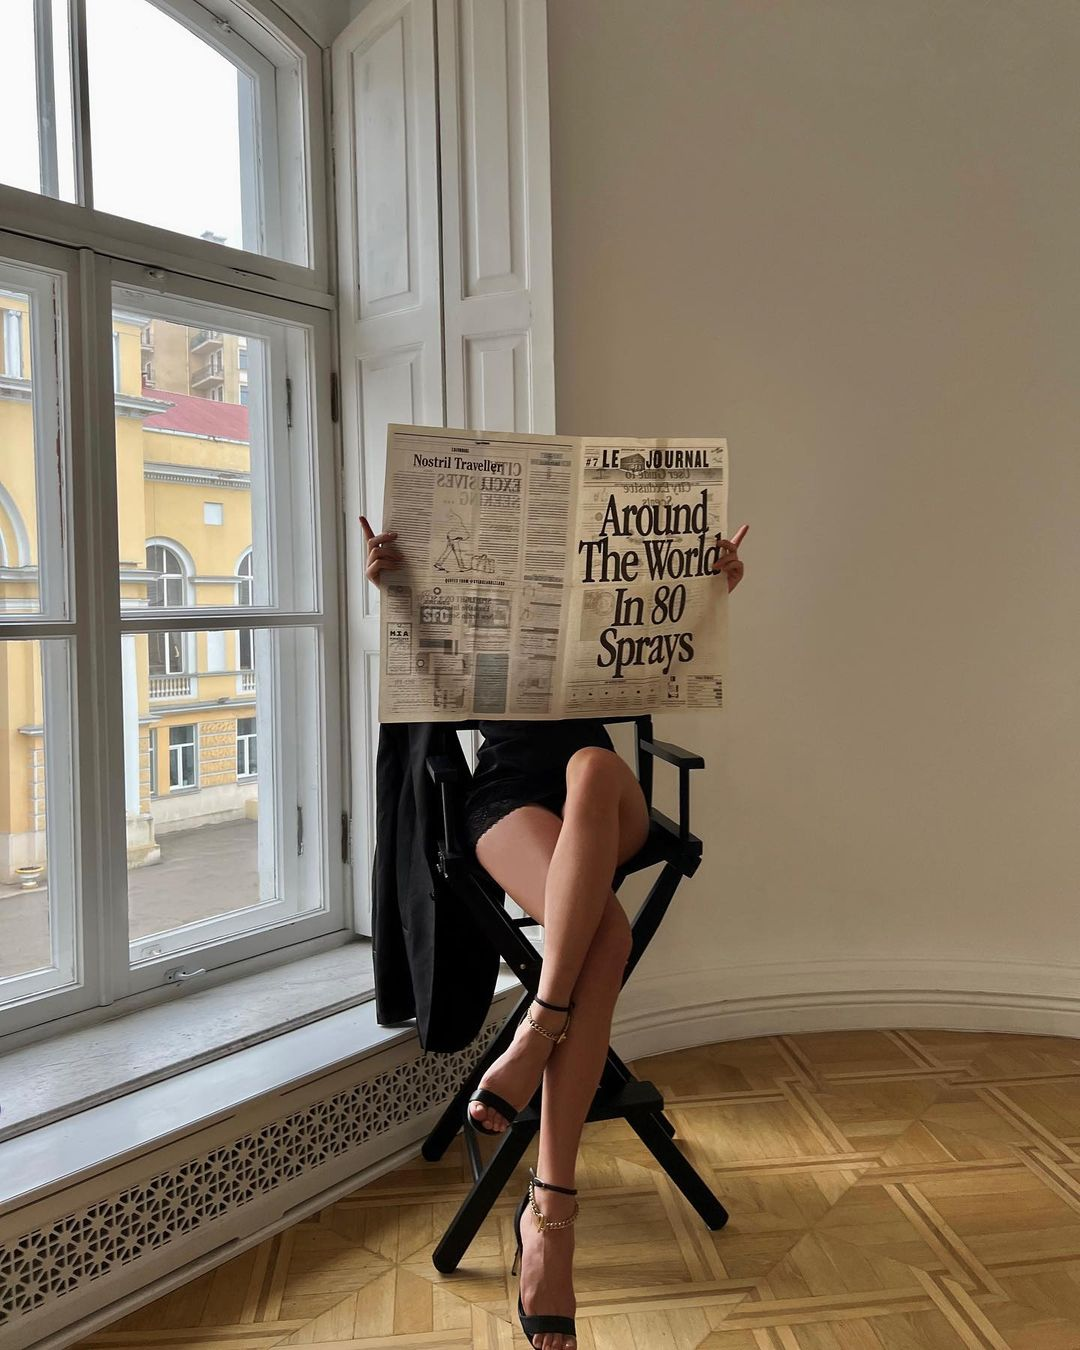
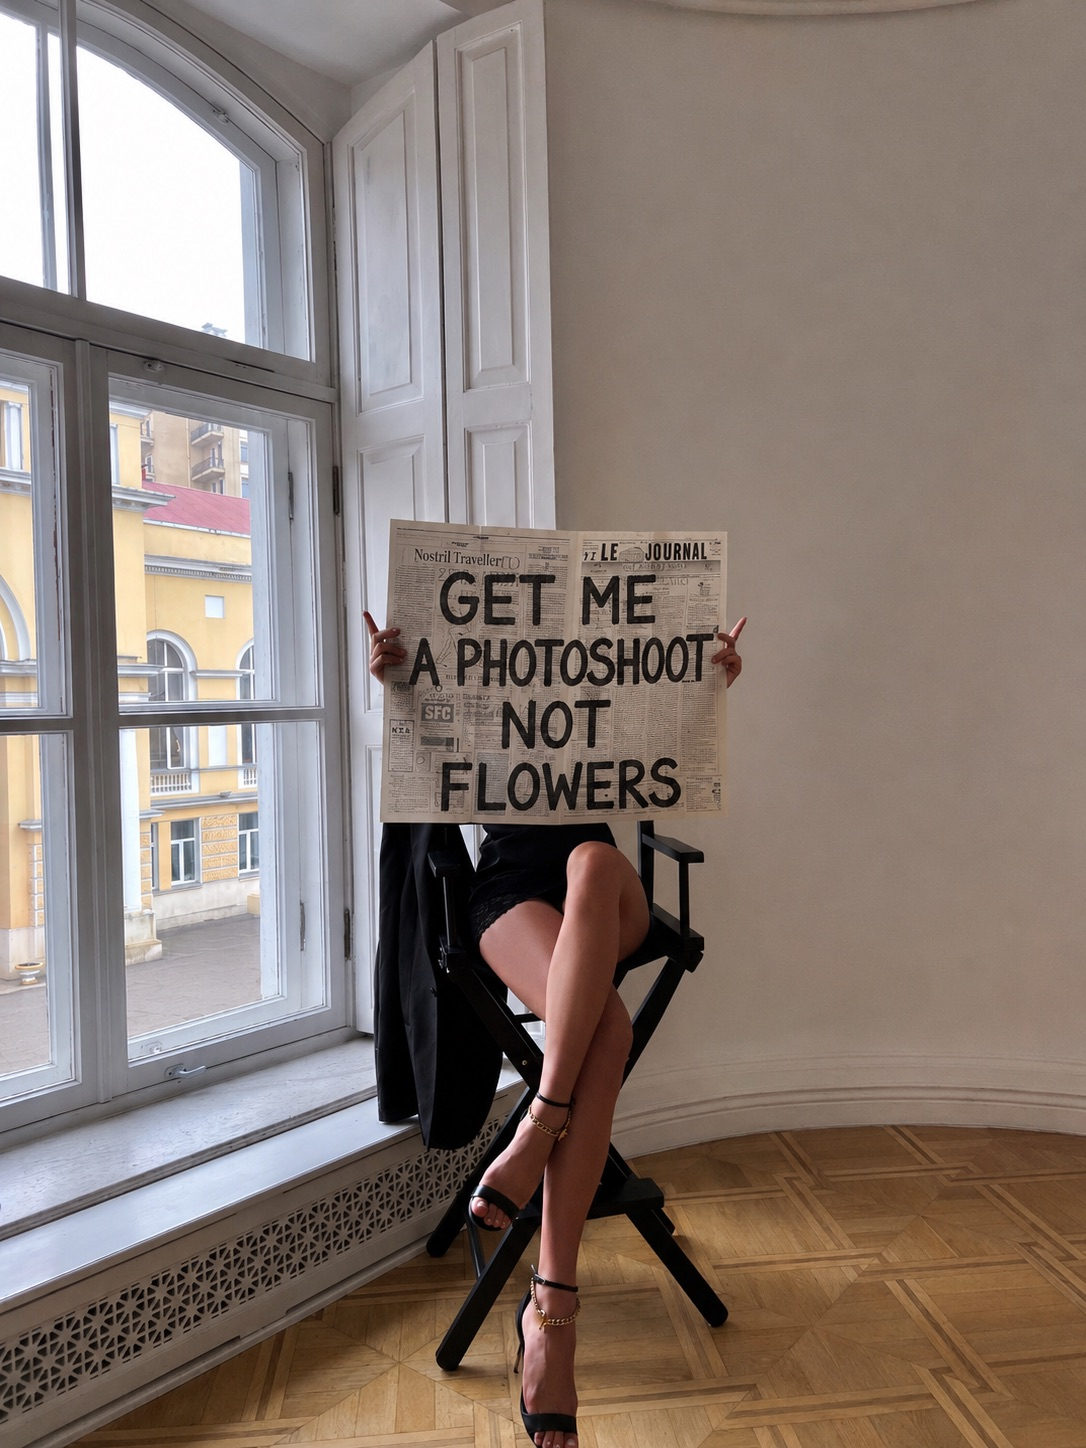
feat: embed Cal.com booking widget on the contacts page
Visitors can pick a day/time (One-on-one "photoshoot" event); Olha gets
an email + calendar invite. Inline @calcom/embed-react widget below the
contact form, with a bilingual heading.

diff --git a/components/CalBooking.tsx b/components/CalBooking.tsx
@@ -1,0 +1,39 @@
+'use client';
+import Cal, { getCalApi } from '@calcom/embed-react';
+import { useEffect } from 'react';
+import { useTranslations } from 'next-intl';
+
+// Inline Cal.com booking widget. Visitors pick a day/time and Olha gets an
+// email + a Google Calendar event. The public link is all that's needed —
+// no API key. Event: One-on-one "photoshoot".
+const CAL_LINK = 'olha-dubenko-89meri/photoshoot';
+
+export default function CalBooking() {
+  const t = useTranslations('Contacts');
+
+  useEffect(() => {
+    (async () => {
+      const cal = await getCalApi();
+      cal('ui', {
+        theme: 'light',
+        hideEventTypeDetails: false,
+        layout: 'month_view',
+      });
+    })();
+  }, []);
+
+  return (
+    <div className="w-full px-2 md:px-40 pb-20 flex flex-col gap-6">
+      <h2 className="text-2xl text-stone-800 text-center">
+        {t('booking_title')}
+      </h2>
+      <div className="w-full rounded-lg overflow-hidden bg-white shadow-lg">
+        <Cal
+          calLink={CAL_LINK}
+          style={{ width: '100%', height: '100%', overflow: 'scroll' }}
+          config={{ layout: 'month_view' }}
+        />
+      </div>
+    </div>
+  );
+}

diff --git a/app/pages/Contancts/Contacts.tsx b/app/pages/Contancts/Contacts.tsx
@@ -1,11 +1,10 @@
 import React from 'react';
 import ContactForm from './components/ContactForm';
 import ContactList from './components/ContactList';
+import CalBooking from '@/components/CalBooking';
 import { useTranslations } from 'next-intl';
 
-type Props = {};
-
-const Contacts = (props: Props) => {
+const Contacts = () => {
   const t = useTranslations('Contacts');
 
   return (
@@ -23,6 +22,7 @@ const Contacts = (props: Props) => {
         <ContactList />
         <ContactForm />
       </div>
+      <CalBooking />
     </section>
   );
 };
